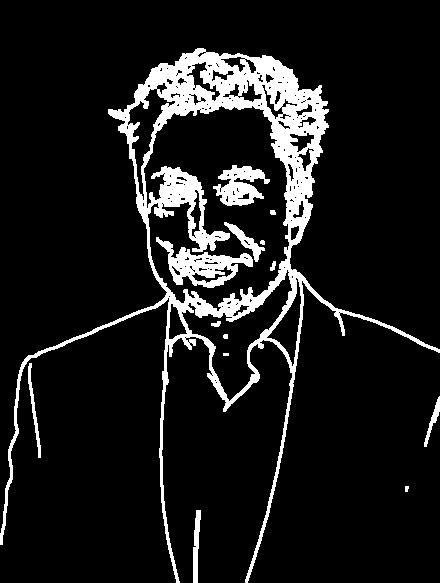
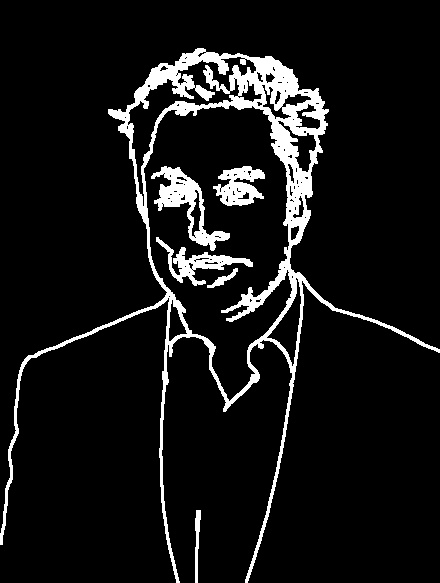
change readme

diff --git a/cartoon_canny_like_v2.py b/cartoon_canny_like_v2.py
@@ -7,7 +7,7 @@ img = cv2.imread('elon.png')
 gray = cv2.cvtColor(img, cv2.COLOR_BGR2GRAY)
 
 # Apply the Canny edge detection algorithm to the grayscale image
-edges = cv2.Canny(gray, 100, 200)
+edges = cv2.Canny(gray, 100, 300)
 
 # Dilate the edges to make them thicker
 kernel = cv2.getStructuringElement(cv2.MORPH_RECT, (2, 2))
